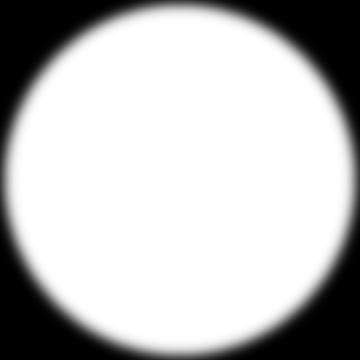
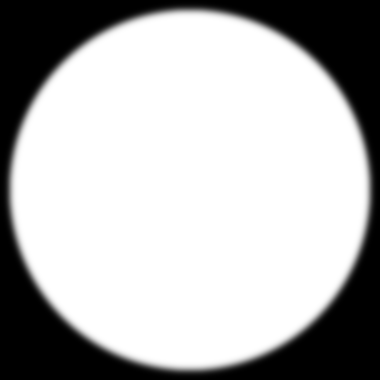
remove unused shadow and log

Changed region(s): [[0.0, 0.0, 1.0, 1.0]]

diff --git a/WitchClock/WitchClock.Tizen.Wearable/WitchWatchApplication.xaml b/WitchClock/WitchClock.Tizen.Wearable/WitchWatchApplication.xaml
@@ -6,16 +6,14 @@
         <ContentPage>
             <ContentPage.Content>
                 <AbsoluteLayout BackgroundColor="#000044">
-                    <Image x:Name="bgShadow" Source="images/bg_shadow.png"  AbsoluteLayout.LayoutBounds="0, 0, 1, 1" AbsoluteLayout.LayoutFlags="All"/>
                     <Image x:Name="castle" Source="images/witch_clock_castle.png" AbsoluteLayout.LayoutBounds="0, 0, 1, 1" AbsoluteLayout.LayoutFlags="All"/>
-                    <Image x:Name="moonstickShadow" Source="images/witch_clock_moonstick_shadow.png" AbsoluteLayout.LayoutBounds="0, 0, 1, 1" AbsoluteLayout.LayoutFlags="All"/>
-                    <Image x:Name="moonstick" Source="images/witch_clock_moonstick.png" AbsoluteLayout.LayoutBounds="0, 0, 1, 1" AbsoluteLayout.LayoutFlags="All"/>
                     <Image x:Name="witchShadow" Source="images/witch_clock_witch_shadow.png" AbsoluteLayout.LayoutBounds="0, 0, 1, 1" AbsoluteLayout.LayoutFlags="All"/>
-                    <Image x:Name="witch" Source="images/witch_clock_witch.png" AbsoluteLayout.LayoutBounds="0, 0, 1, 1" AbsoluteLayout.LayoutFlags="All"/>
                     <Image x:Name="starShadow" Source="images/witch_clock_starstick_shadow.png" AbsoluteLayout.LayoutBounds="0, 0, 1, 1" AbsoluteLayout.LayoutFlags="All"/>
+                    <Image x:Name="moonstick" Source="images/witch_clock_moonstick.png" AbsoluteLayout.LayoutBounds="0, 0, 1, 1" AbsoluteLayout.LayoutFlags="All"/>
+                    <Image x:Name="witch" Source="images/witch_clock_witch.png" AbsoluteLayout.LayoutBounds="0, 0, 1, 1" AbsoluteLayout.LayoutFlags="All"/>
                     <Image x:Name="star" Source="images/witch_clock_starstick.png" AbsoluteLayout.LayoutBounds="0, 0, 1, 1" AbsoluteLayout.LayoutFlags="All"/>
-                    <Image x:Name="cityShadow" Source="images/witch_clock_city_shadow.png" AbsoluteLayout.LayoutBounds="0, 0, 1, 1" AbsoluteLayout.LayoutFlags="All"/>
                     <Image x:Name="city" Source="images/witch_clock_city.png" AbsoluteLayout.LayoutBounds="0, 0, 1, 1" AbsoluteLayout.LayoutFlags="All"/>
+                    <Image x:Name="bgShadow" Source="images/bg_shadow.png"  AbsoluteLayout.LayoutBounds="-10, -10, 1.2, 1.2" AbsoluteLayout.LayoutFlags="SizeProportional"/>
                 </AbsoluteLayout>
             </ContentPage.Content>
         </ContentPage>

diff --git a/WitchClock/WitchClock.Tizen.Wearable/WitchClock.Tizen.Wearable.cs b/WitchClock/WitchClock.Tizen.Wearable/WitchClock.Tizen.Wearable.cs
@@ -1,5 +1,6 @@
-using System;
+using System;
 using Tizen.Applications;
+using Tizen.Sensor;
 using Tizen.Wearable.CircularUI.Forms.Renderer.Watchface;
 
 namespace WitchClock
@@ -8,11 +9,29 @@ namespace WitchClock
     {
         bool initialized;
         WitchWatchApplication witchWatch;
+        GravitySensor gravity;
+
         protected override void OnCreate()
         {
             base.OnCreate();
             witchWatch = new WitchWatchApplication();
             LoadWatchface(witchWatch);
+            initialized = false;
+
+            if (GravitySensor.IsSupported)
+            {
+                gravity = new GravitySensor();
+                gravity.DataUpdated += OnSensorUpdate;
+            }
+        }
+
+        void OnSensorUpdate(object sender, GravitySensorDataUpdatedEventArgs e)
+        {
+            var dx = 20.0 * e.X / 9.8;
+            var dy = 20.0 * e.Y / 9.8;
+
+            witchWatch.ShadowX = -dx;
+            witchWatch.ShadowY = -dy;
         }
 
         protected override void OnTick(TimeEventArgs time)
@@ -25,14 +44,18 @@ namespace WitchClock
         {
             if (!initialized)
             {
-                witchWatch.MoveHands(900).ContinueWith(t => witchWatch.Run());
+                var time = GetCurrentTime();
+                witchWatch.Time = time.UtcTimestamp + TimeSpan.FromMilliseconds(time.Millisecond);
+                witchWatch.MoveHands(900).ContinueWith((Action<System.Threading.Tasks.Task<bool>>)((System.Threading.Tasks.Task<bool> t) => {
+                    witchWatch.Run();
+                    this.gravity.Start();
+                }));
                 initialized = true;
-                Console.WriteLine("----------------- 1");
             }
             else
             {
                 witchWatch.Run();
-                Console.WriteLine("----------------- 2");
+                gravity.Start();
             }
 
             base.OnResume();
@@ -42,6 +65,7 @@ namespace WitchClock
         {
             base.OnPause();
             witchWatch.StopHands();
+            gravity.Stop();
         }
 
         protected override void OnAmbientChanged(AmbientEventArgs mode)

diff --git a/WitchClock/WitchClock.Tizen.Wearable/WitchWatchApplication.xaml.cs b/WitchClock/WitchClock.Tizen.Wearable/WitchWatchApplication.xaml.cs
@@ -19,11 +19,12 @@ namespace WitchClock
         public WitchWatchApplication()
         {
             InitializeComponent();
-
-            //bgShadow.TranslateTo(5, 5);
         }
 
         public DateTime Time { get; set; }
+
+        public double ShadowX { get; set; }
+        public double ShadowY { get; set; }
 
         public void Run()
         {
@@ -45,11 +46,18 @@ namespace WitchClock
                 double sec = SecondRotation(now);
 
                 moonstick.Rotation = hour;
-                moonstickShadow.Rotation = hour;
                 witch.Rotation = min;
                 witchShadow.Rotation = min;
                 star.Rotation = sec;
                 starShadow.Rotation = sec;
+
+                bgShadow.TranslationX = ShadowX;
+                witchShadow.TranslationX = ShadowX;
+                starShadow.TranslationX = ShadowX;
+                bgShadow.TranslationY = ShadowY;
+                witchShadow.TranslationY = ShadowY;
+                starShadow.TranslationY = ShadowY;
+
                 return moving;
             };
             Device.BeginInvokeOnMainThread(() =>
@@ -72,13 +80,12 @@ namespace WitchClock
             var tsc = new TaskCompletionSource<bool>();
 
             var taskMoonstick = moonstick.RotateTo(hour, length);
-            var taskMoonstickShadow = moonstickShadow.RotateTo(hour, length);
             var taskWitch = witch.RotateTo(min, length);
             var taskWitchShadow = witchShadow.RotateTo(min, length);
             var taskStar = star.RotateTo(sec, length);
             var taskStarShadow = starShadow.RotateTo(sec, length);
 
-            Task.WhenAll(taskMoonstick, taskMoonstickShadow, taskWitch, taskWitchShadow, taskStar, taskStarShadow)
+            Task.WhenAll(taskMoonstick, taskWitch, taskWitchShadow, taskStar, taskStarShadow)
                 .ContinueWith(t => tsc.SetResult(t.Result.All(x => x)));
 
             return tsc.Task;
